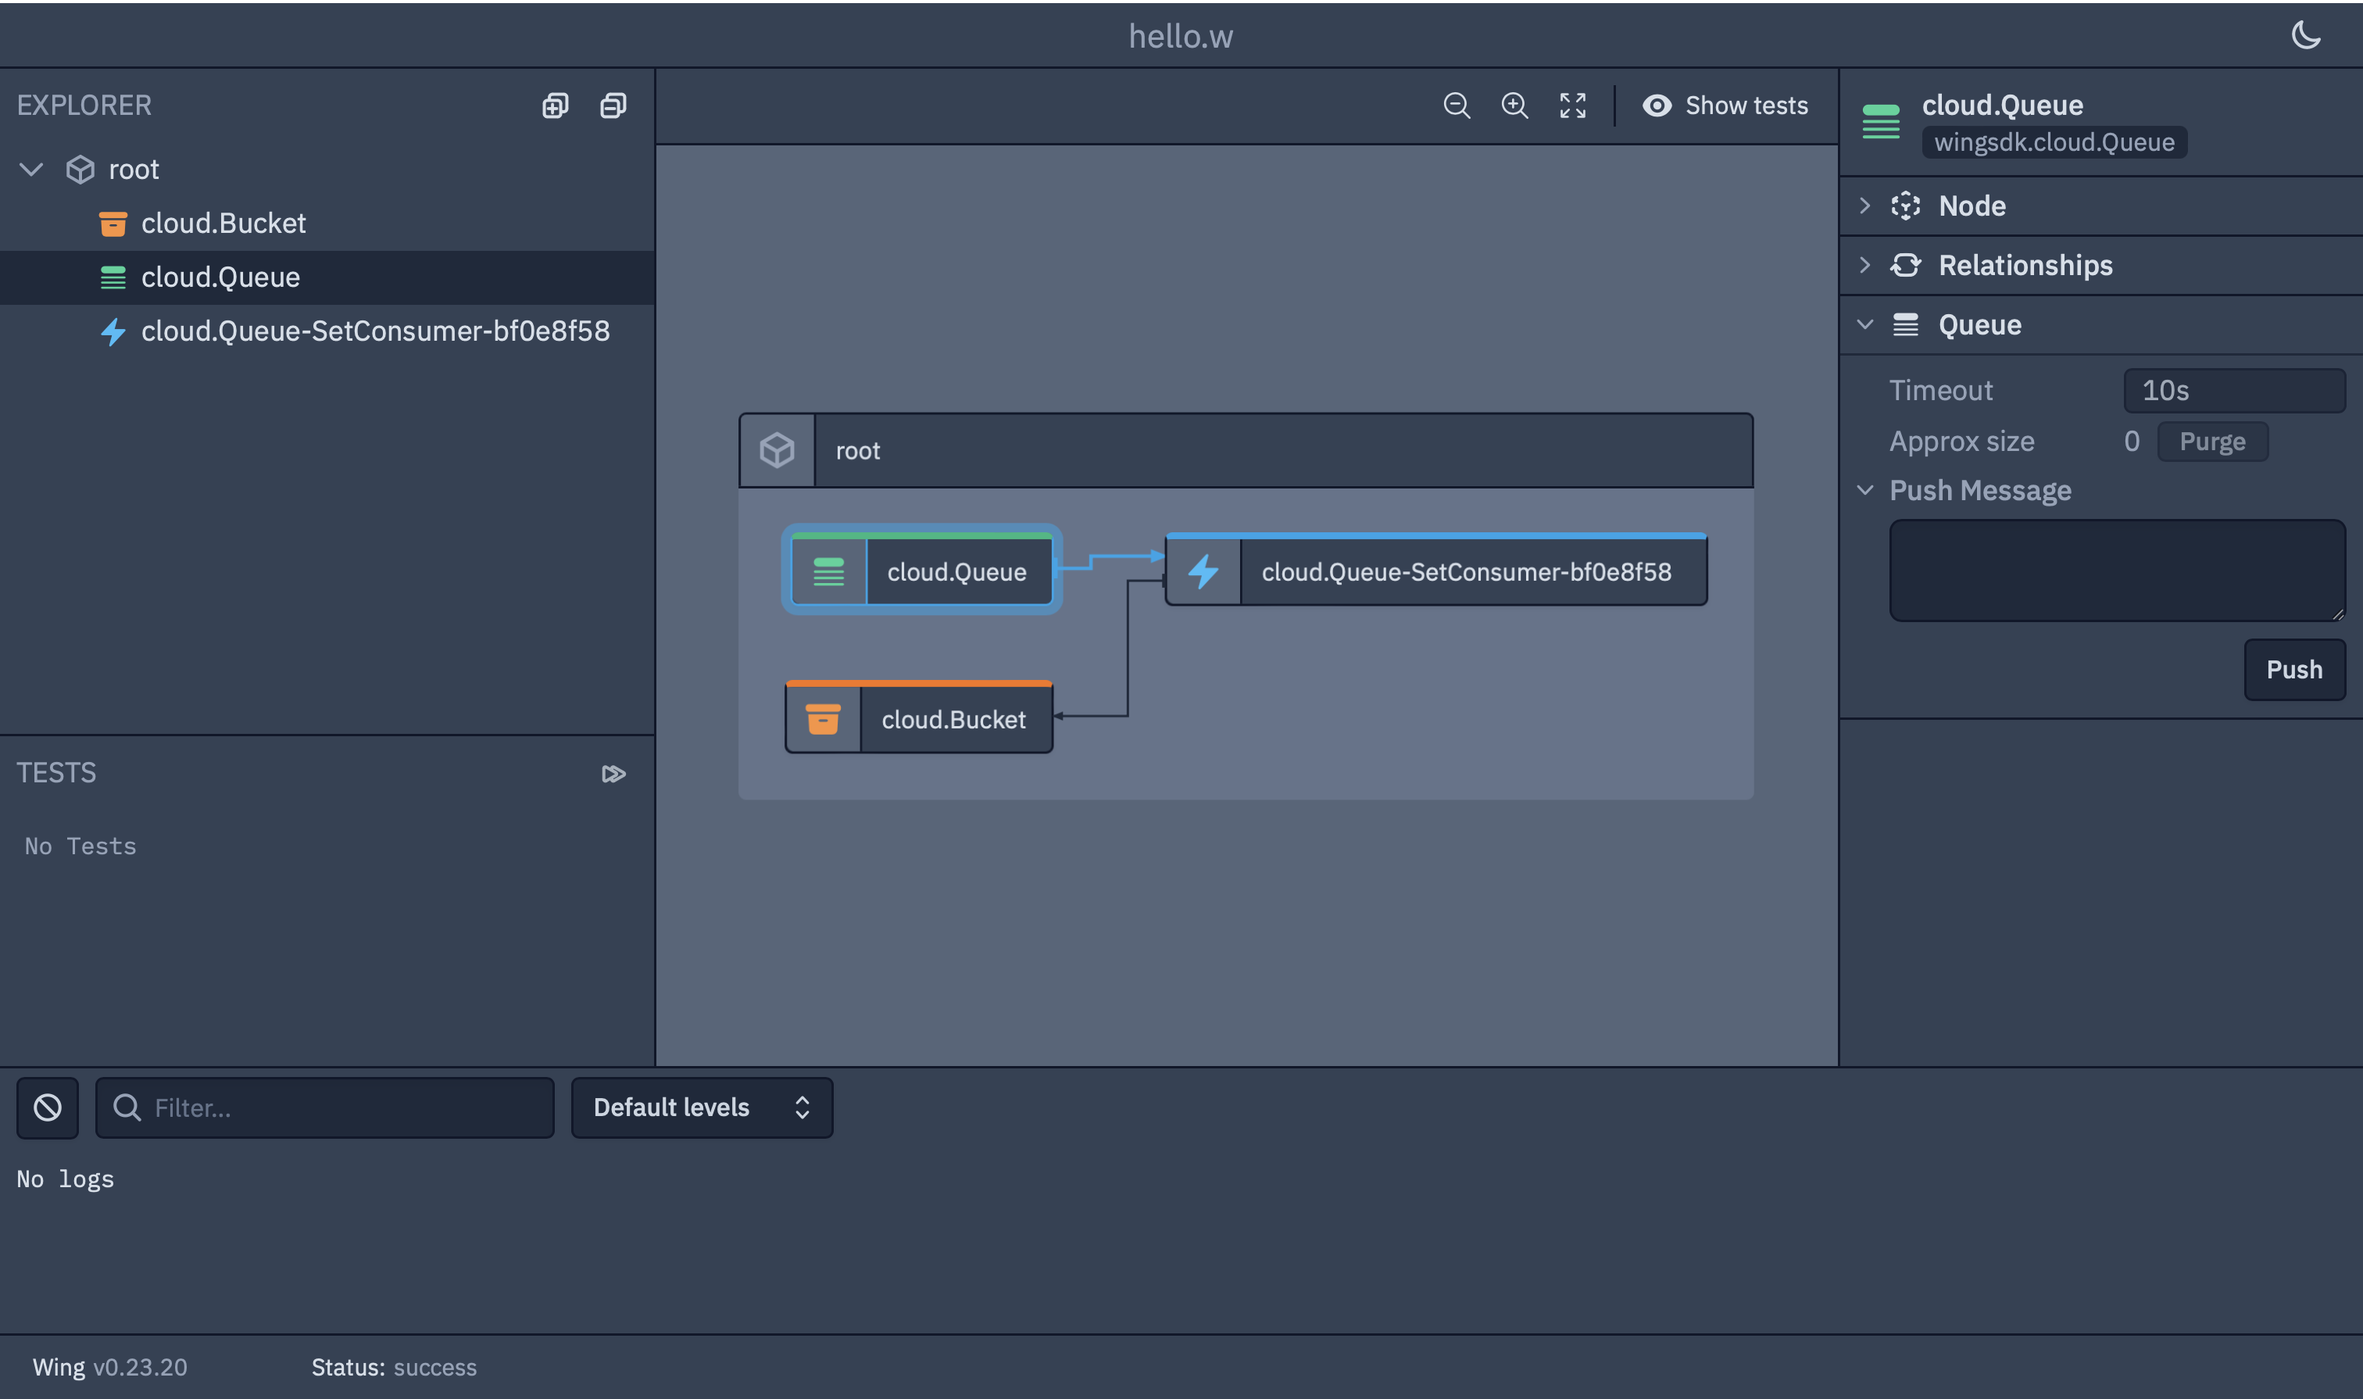
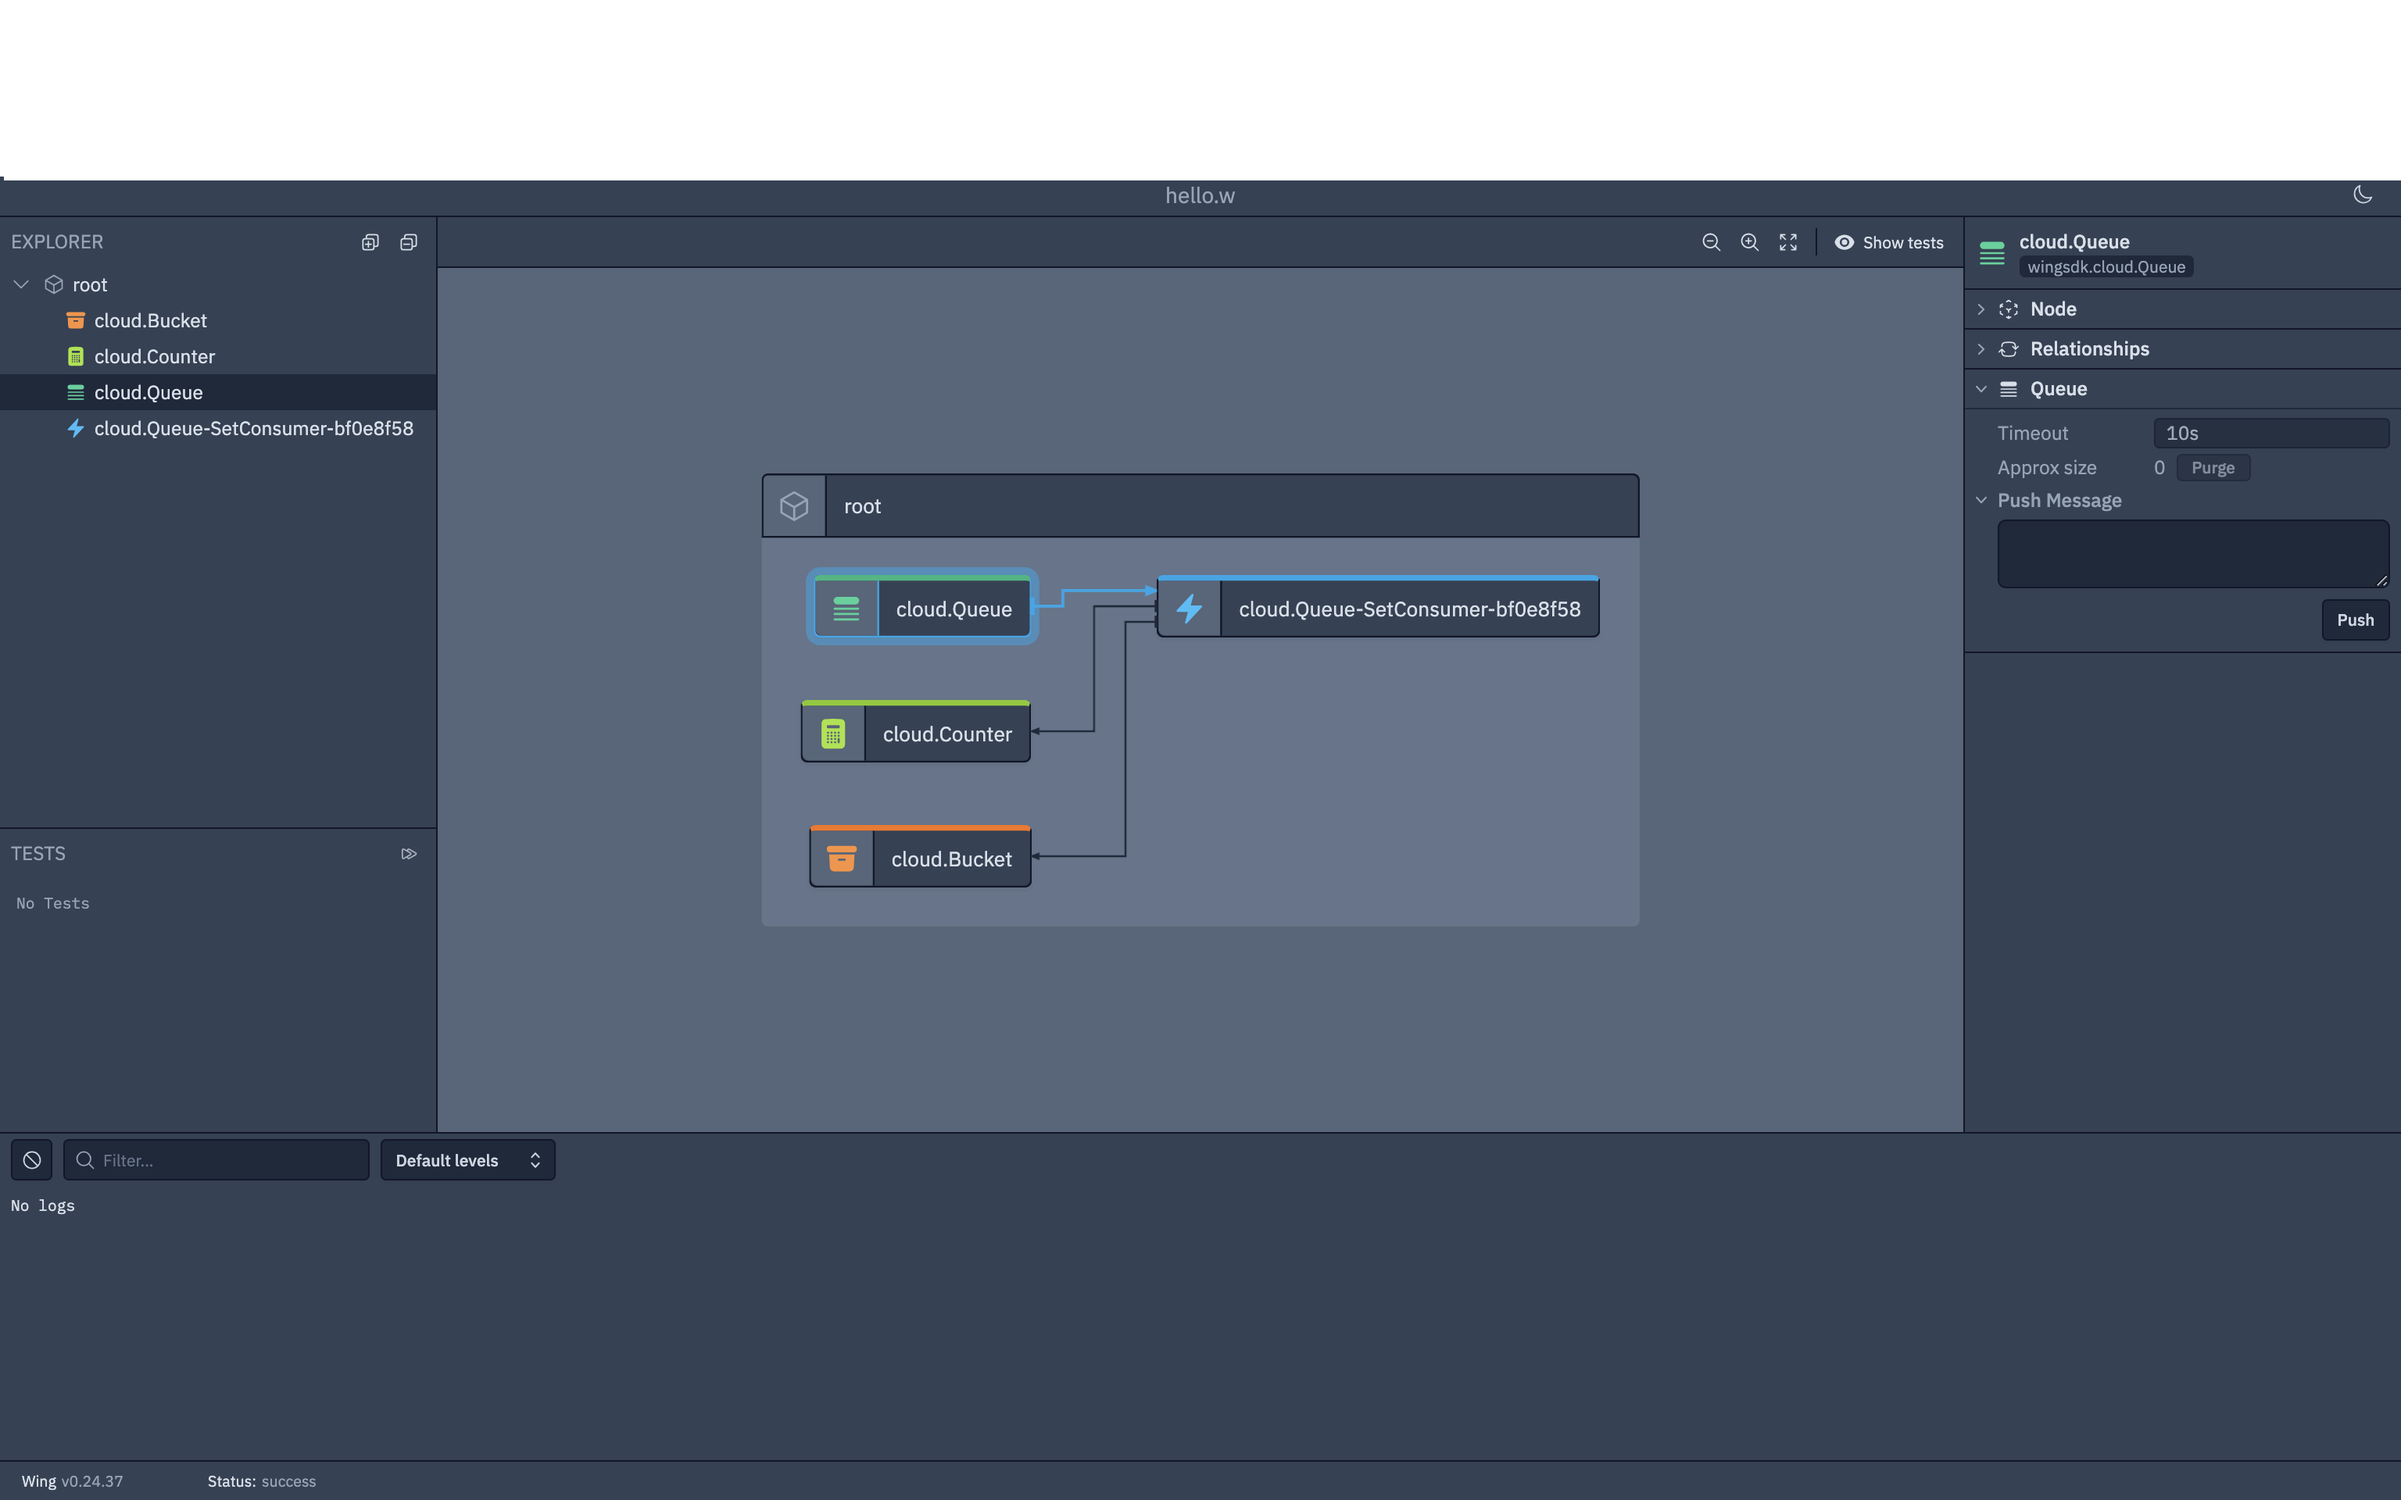
feat(docs): update docs (#546)
feat(docs): update docs

Updates the Wing docs. See details in [workflow run].

[Workflow Run]: https://github.com/winglang/docsite/actions/runs/5617335798

------

*Automatically created via the "update-docs" workflow*

diff --git a/versioned_docs/version-latest/01-start-here/05-aws.md b/versioned_docs/version-latest/01-start-here/05-aws.md
@@ -90,6 +90,9 @@ plan. Resource actions are indicated with the following symbols:
 
 Terraform will perform the following actions:
 
+  # aws_dynamodb_table.cloudCounter will be created
+  + resource "aws_dynamodb_table" "cloudCounter" {...}
+
   # aws_iam_role.cloudQueue-SetConsumer-cdafee6e_IamRole_2548D828 will be created
   + resource "aws_iam_role" "cloudQueue-SetConsumer-cdafee6e_IamRole_2548D828" {...}
 
@@ -123,7 +126,7 @@ Terraform will perform the following actions:
   # aws_sqs_queue.cloudQueue will be created
   + resource "aws_sqs_queue" "cloudQueue" {...}
 
-Plan: 11 to add, 0 to change, 0 to destroy.
+Plan: 12 to add, 0 to change, 0 to destroy.
 ```
 
 > This is a good opportunity to observe how much complexity the Wing compiler
@@ -134,7 +137,7 @@ If you choose to proceed, Terraform will do its magic and will create all of the
 account.
 
 ```  
-Apply complete! Resources: 11 added, 0 changed, 0 destroyed.
+Apply complete! Resources: 12 added, 0 changed, 0 destroyed.
 ```
 
 ## Explore your app on AWS
@@ -149,15 +152,15 @@ through the AWS Management Console.
 5. In the **Message Body** box type `cloud` and hit **Send message**.
 6. Jump over to the [S3 Console](https://s3.console.aws.amazon.com/s3/buckets) 
 7. There should be some buckets prefixed with `cloud-bucket-`. 
-8. Cycle through the buckets until you find one that contains `wing.txt`.
-9. Click `wing.txt` then click the `Open` button.
+8. Cycle through the buckets until you find one that contains `wing-1.txt`.
+9. Click `wing-1.txt` then click the `Open` button.
 10. The file should contain `Hello, cloud`.
 
 ## Cleanup
 
 Terraform doesn't allow destroying a non-empty bucket by default. To prepare for
 easy cleanup, you may delete the newly created file by marking the checkbox next
-to `wing.txt`, clicking the `Delete` button, typing `permanently delete` in the
+to `wing-1.txt`, clicking the `Delete` button, typing `permanently delete` in the
 confirmation box and clicking the `Delete objects` button.
 
 Once you're done, you can destroy all of the resources that were created on your AWS account by running:

diff --git a/versioned_docs/version-latest/01-start-here/03-hello.md b/versioned_docs/version-latest/01-start-here/03-hello.md
@@ -24,15 +24,19 @@ entrypoint of your Wing application.
 bring cloud;
 
 let bucket = new cloud.Bucket();
+let counter = new cloud.Counter(
+  initial: 1
+);
 let queue = new cloud.Queue();
 
 queue.setConsumer(inflight (message: str) => {
-  bucket.put("wing.txt", "Hello, ${message}");
-  log("file created");
+  let index = counter.inc();
+  bucket.put("wing-${index}.txt", "Hello, ${message}");
+  log("file wing-${index}.txt created");
 });
 ```
 
-This code should be mostly self explanatory. We define a queue, and every time a
-message is added to the queue, a handler is triggered and creates a file named `wing.txt` with `"Hello, ${message}!"` content .
+This code should be mostly self explanatory. We define a queue and a counter, and every time a
+message is added to the queue, a handler is triggered and creates a file named `wing-<counter-index>.txt` with `"Hello, ${message}!"` content, and the counter is incremented by 1.
 
 Now that we've written this program, let's run and test it using the **Wing Console**.

diff --git a/versioned_docs/version-latest/01-start-here/04-run-locally.md b/versioned_docs/version-latest/01-start-here/04-run-locally.md
@@ -41,7 +41,7 @@ On the interaction panel, Type a message in the `Push Message` text area (let's 
 
 Now, click on the bucket in the map view. Notice that the interaction panel has changed and now shows the bucket's interaction view.
 
-When you click on the `wing.txt` file, you should be able to see its contents.
+When you click on the `wing-1.txt` file, you should be able to see its contents.
 
 ![Bucket resource view in Wing Console](./console-bucket-1.png 'Bucket resource')
 
